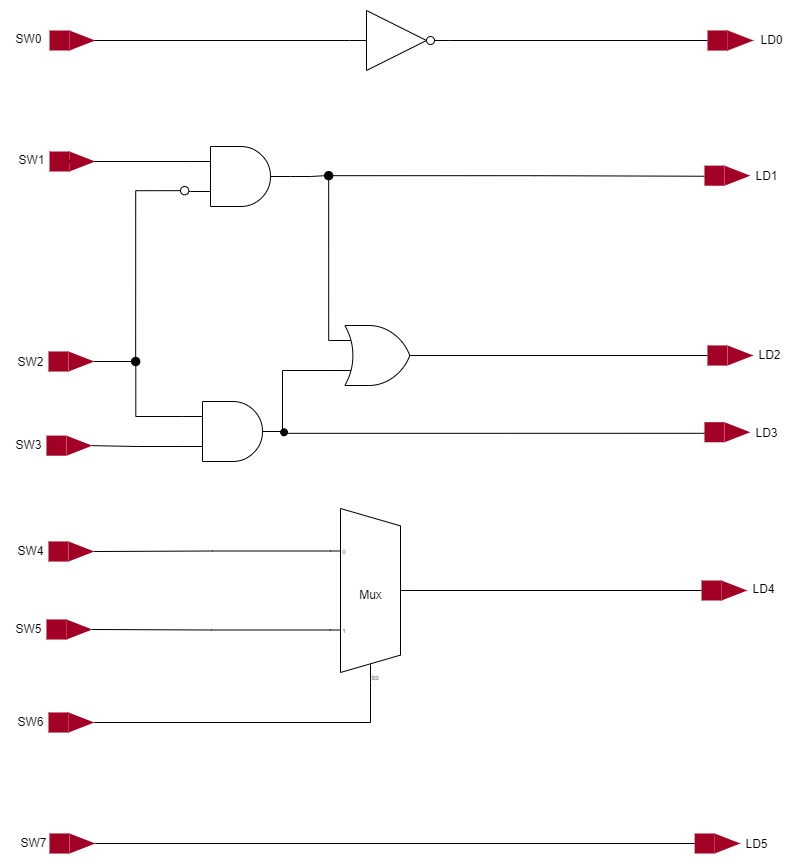
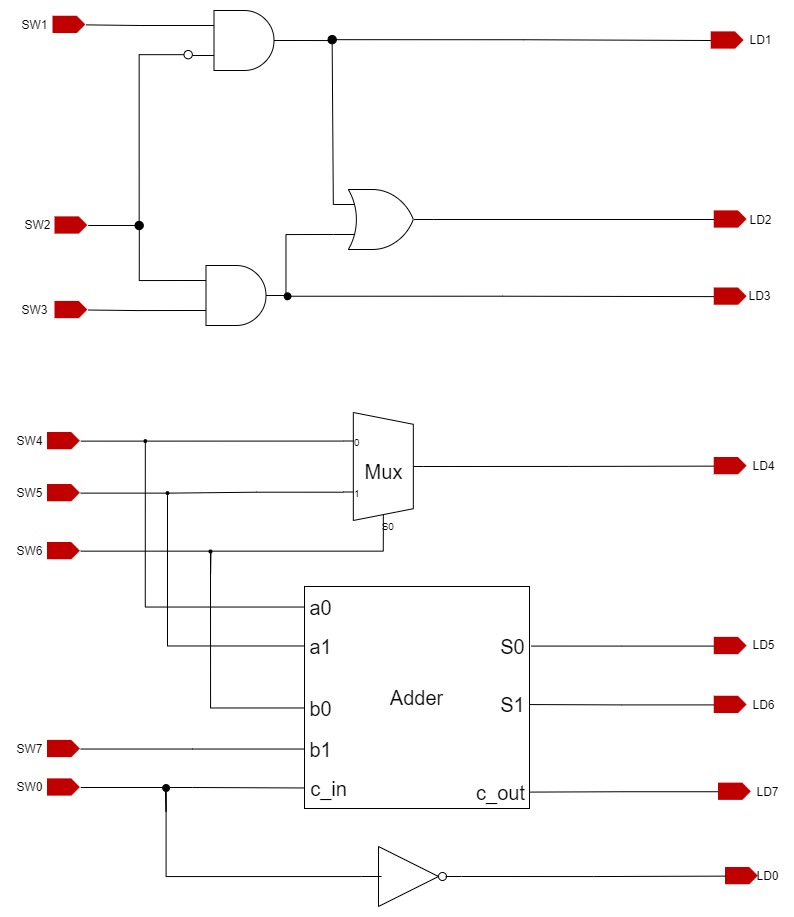
regular save

diff --git a/Vivado_Tutorial_Using_IP_Integrator.md b/Vivado_Tutorial_Using_IP_Integrator.md
@@ -28,11 +28,11 @@ This tutorial is broken into steps that consist of general overview statements p
 
 ### Design Description
 
-The design consists of one input directly connected to the corresponding output LED. Other inputs are logically operated on before the results are output on the remaining LEDs as shown in **Figure 1**.
+The design consists of  several inputs who are logically operated on before the results are output on the remaining LEDs and others are contained in a hierarchical block(the `add_on_block` in the diagram) as shown in the following figure.
 
-![fig1](img/Vivado_Tutorial_Using_IP_Integrator/fig1.jpg)
+![fig1](./img/Vivado_Tutorial_Using_IP_Integrator/top_schema.png)
 
-<center>Figure 1. Completed Design</center>
+Completed Design
 
 ## General Flow for this tutorial
 
@@ -78,7 +78,7 @@ Launch Vivado and create a project targeting the **{BOARD}** and using the Veril
 
 <img src="img/Vivado_Tutorial_Using_IP_Integrator/fig2.png" alt="image-20211223145422112" style="zoom:65%;" />
 
-<center>Figure 2. Project Name and Location entry</center>
+<center> Project Name and Location entry</center>
 
 
 5. Select **RTL Project** option in the *Project Type* form and click **Next**.
@@ -99,12 +99,12 @@ Launch Vivado and create a project targeting the **{BOARD}** and using the Veril
 
 ![fig3](img/Vivado_Tutorial_Using_IP_Integrator/fig3.png)
 
-<center>Figure 3. Part selection for Boolean </center>
+<center>Part selection for Boolean </center>
 
 
 ![fig3](img/Vivado_Tutorial_Using_IP_Integrator/fig4.png)
 
-<center>Figure 4. Part selection for PYNQ-Z2 </center>
+<center>Part selection for PYNQ-Z2 </center>
 
 11. Click **Finish** to create the Vivado project.
 
@@ -127,7 +127,7 @@ Launch Vivado and create a project targeting the **{BOARD}** and using the Veril
     └─tutorial.sim
     ```
 
-    File with extension name `.xpr` is the *(Vivado) Project File*
+        File with extension name `.xpr` is the *(Vivado) Project File*
 
 ### Set IP repository path to point to the provided XUP IP library
 
@@ -135,13 +135,13 @@ Launch Vivado and create a project targeting the **{BOARD}** and using the Veril
 
    <img src="img/Vivado_Tutorial_Using_IP_Integrator/fig5.png" alt="fig5" style="zoom:67%;" />
 
-<center>Figure 5. Project Manager Settings</center>
+<center>Project Manager Settings</center>
 
 2. In the *Project Settings* window, click on the **IP > Repository**
 
    <img src="img/Vivado_Tutorial_Using_IP_Integrator/fig6.png" alt="fig6" style="zoom:67%;" />
 
-<center>Figure 6. Project Settings Panel</center>
+<center>Project Settings Panel</center>
 
 3. Click on the ![add](img/Vivado_Tutorial_Using_IP_Integrator/add.png)  button, browse to **{SOURCES}** and select **XUP_LIB** directory, and click **Refresh All > OK**.
 
@@ -250,23 +250,50 @@ Launch Vivado and create a project targeting the **{BOARD}** and using the Veril
 
 <center>Figure 17. Partially completed design</center>
 
-### Complete the design including rest of the switches and LDs
+### Complete the design including rest of the switches and LDs with a hierarchical block
 
-1. Right-click on the canvas and create an input port *SW4*.
+To create a 2-bit adder with the basic logic gates, we need to implement a half adder first. The truth table of a half adder is 
 
-2. Similarly, create *SW5*, *SW6*, and *SW7* as input ports, and *LD4*, *LD5*, *LD6*, and *LD7* as output ports.
+| a    | b    | sum  | carry out |
+| ---- | ---- | ---- | --------- |
+| 0    | 0    | 0    | 0         |
+| 0    | 1    | 1    | 0         |
+| 1    | 0    | 1    | 0         |
+| 1    | 1    | 0    | 1         |
 
-3. **This point onwards steps and diagrams must be validated** Using wiring tool, connect *SW4* to *LD4*, *SW5* to *LD5*, *SW6* to *LD6*, and *SW7* to *LD7*.
+derive the logical expression from the truth table above, we got
+$$
+sum = a\oplus b\\carry = a\cdot b
+$$
+A half adder consists of one exclusive or (XOR) gate and an AND gate, as shown in the following figure
 
-4. Click the re-draw button.
+<img src="img/Vivado_Tutorial_Using_IP_Integrator/half_adder_inter.png" alt="fig13" style="zoom:67%;" />
 
-   The design should look like as shown below.
+Using two half adders, we can build a full adder. The truth table of a full adder is
 
-   <img src="img/Vivado_Tutorial_Using_IP_Integrator/fig18.png" alt="fig13" style="zoom:67%;" />
+| a    | b    | carry in | sum  | carry out |
+| ---- | ---- | -------- | ---- | --------- |
+| 0    | 0    | 0        | 0    | 0         |
+| 0    | 0    | 1        | 1    | 0         |
+| 0    | 1    | 0        | 1    | 0         |
+| 0    | 1    | 1        | 0    | 1         |
+| 1    | 0    | 0        | 1    | 0         |
+| 1    | 0    | 1        | 0    | 1         |
+| 1    | 1    | 0        | 0    | 1         |
+| 1    | 1    | 1        | 1    | 1         |
 
-   The completed design
+Connecting the carry out of the first half adder to the input of the second adder, we can construct a full adder
 
-5. Select **File > Save Block Design.**
+<img src="img/Vivado_Tutorial_Using_IP_Integrator/full_adder_inter.png" alt="fig13" style="zoom:67%;" />
+
+The 2-bit adder will be using two cascaded full adder to perform the logical function
+
+<img src="img/Vivado_Tutorial_Using_IP_Integrator/ripple_carry_inter.png" alt="fig13" style="zoom:67%;" />
+
+Following the instructions below to create a 2-bit carry adder
+
+1. create a half adder schematic using a logic gates as shown below
+
 
 ## Step 3 Create HDL Wrapper and Add a Constraint File
 
